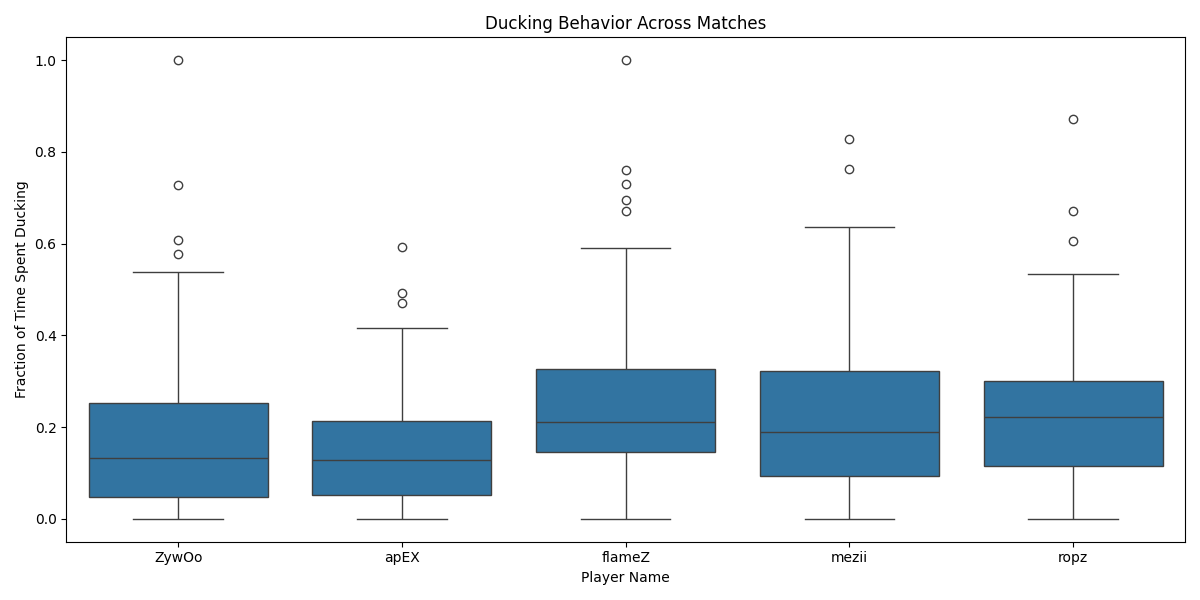
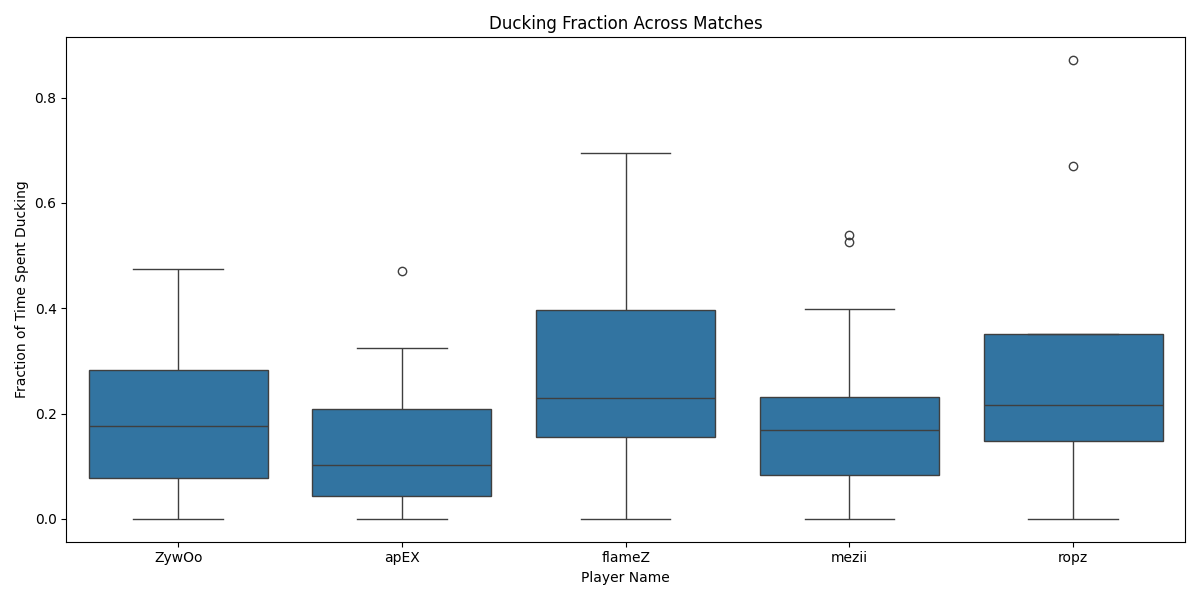
Extra metrics

diff --git a/player_similarity.py b/player_similarity.py
@@ -45,7 +45,8 @@ def compute_similarity(new_features: pd.DataFrame, known_features: pd.DataFrame)
     Computes a confidence score based on multiple similarity metrics.
     """
     return (
-        compute_cursor_similarity_jensenshannon(new_features, known_features)
+        compute_location_similarity_wasserstein(new_features, known_features) 
+        # compute_cursor_similarity_jensenshannon(new_features, known_features)
         # TODO: add more metrics here
         # such as heatmap, crouching/jumping, weapon usage, etc.
     ) / 1
@@ -105,6 +106,37 @@ def compute_cursor_similarity_wasserstein(new_features: pd.DataFrame, known_feat
     p2 = wasserstein_distance(new_features['pitch_acceleration'], known_features['pitch_acceleration'])
     p3 = wasserstein_distance(new_features['pitch_smoothness'], known_features['pitch_smoothness'])
     return 1 - (y1 + y2 + y3 + p1 + p2 + p3) / 6
+
+def compute_location_similarity_jensenshannon(new_features: pd.DataFrame, known_features: pd.DataFrame) -> float:
+    """
+    Computes a confidence score based on multiple similarity metrics.
+    """
+    x1, _ = np.histogram(new_features['X'], bins=50, density=True)
+    x2, _ = np.histogram(known_features['X'], bins=50, density=True)
+
+    x_jsd = jensenshannon(x1, x2)
+
+    y1, _ = np.histogram(new_features['Y'], bins=50, density=True)
+    y2, _ = np.histogram(known_features['Y'], bins=50, density=True)
+
+    y_jsd = jensenshannon(y1, y2)
+
+    return 1 - (x_jsd + y_jsd) / 2
+
+def compute_location_similarity_wasserstein(new_features: pd.DataFrame, known_features: pd.DataFrame) -> float:
+    """
+    Computes a confidence score based on multiple similarity metrics, normalized to [0, 1].
+    """
+    x1 = wasserstein_distance(new_features['X'], known_features['X'])
+    y1 = wasserstein_distance(new_features['Y'], known_features['Y'])
+    
+    # Normalize the distances to [0, 1] using a max possible distance (e.g., domain knowledge or a large constant)
+    max_distance = 1200  # Adjust this value based on the expected range of X and Y
+    normalized_x1 = min(x1 / max_distance, 1.0)
+    normalized_y1 = min(y1 / max_distance, 1.0)
+    
+    # Compute similarity as 1 - normalized average distance
+    return 1 - (normalized_x1 + normalized_y1) / 2
 
 def evaluate_players(new_ticks: pd.DataFrame, known_ticks: pd.DataFrame, players: list, map_name: str):
     """
@@ -168,24 +200,45 @@ def plot_similarity_results():
             }
     """
     results = [
+        # Cursor results
+        # {
+        #     "label": "Janson-Shannon",
+        #     "avg_self": 0.4534,
+        #     "min_self": 0.3276,
+        #     "max_self": 0.6264,
+        #     "avg_other": 0.4927,
+        #     "min_other": 0.2364,
+        #     "max_other": 0.9702,
+        # },
+        # {
+        #     "label": "Wasserstein",
+        #     "avg_self": 0.9348,
+        #     "min_self": 0.8272,
+        #     "max_self": 0.9927,
+        #     "avg_other": 0.8476,
+        #     "min_other": 0.2843,
+        #     "max_other": 0.9850,
+        # }
+
+        # Location results
         {
-            "label": "Jensen-Shannon",
-            "avg_self": 0.4534,
-            "min_self": 0.3276,
-            "max_self": 0.6264,
-            "avg_other": 0.4927,
-            "min_other": 0.2364,
-            "max_other": 0.9702,
+            "label": "Janson-Shannon",
+            "avg_self": 0.7747,
+            "min_self": 0.6580,
+            "max_self": 0.8150,
+            "avg_other": 0.6637,
+            "min_other": 0.1193,
+            "max_other": 0.8143,
         },
-        {
-            "label": "Wasserstein",
-            "avg_self": 0.9348,
-            "min_self": 0.8272,
-            "max_self": 0.9927,
-            "avg_other": 0.8476,
-            "min_other": 0.2843,
-            "max_other": 0.9850,
-        }
+        # {
+        #     "label": "Wasserstein",
+        #     "avg_self": 0.7282,
+        #     "min_self": 0.6691,
+        #     "max_self": 0.7924,
+        #     "avg_other": 0.6032,
+        #     "min_other": 0.0455,
+        #     "max_other": 0.9291,
+        # }
     ]
     categories = ["Avg Self", "Min Self", "Max Self", "Avg Other", "Min Other", "Max Other"]
     num_categories = len(categories)
@@ -194,7 +247,9 @@ def plot_similarity_results():
     x = np.arange(num_categories)  # X-axis positions for each category
     bar_width = 0.8 / num_datasets  # Adjust width dynamically
 
-    colors = ["#1f77b4", "#ff7f0e", "#2ca02c", "#d62728", "#9467bd", "#7f7f7f"]  # Blue, Orange, Green, Red, Purple, Gray
+    colors = [
+        "#1f77b4", 
+        "#ff7f0e", "#2ca02c", "#d62728", "#9467bd", "#7f7f7f"]  # Blue, Orange, Green, Red, Purple, Gray
 
     fig, ax = plt.subplots(figsize=(10 + num_datasets, 6))
 
@@ -216,7 +271,7 @@ def plot_similarity_results():
     ax.set_ylim(0, 1)  # Assuming similarity scores are between 0 and 1
 
     # plt.show()
-    plt.savefig("./figures/player_similarity_evaluation.png", dpi=300)
+    plt.savefig("./figures/player_location_similarity_evaluation_js.png", dpi=300)
 
 def main():
     parser = argparse.ArgumentParser(description='Compute player similarity between new and known demo files.')

diff --git a/boxplots.py b/boxplots.py
@@ -49,12 +49,12 @@ def plot_boolean_boxplot(data, field):
     :param field: The boolean field being analyzed
     """
     plt.figure(figsize=(12, 6))
-    sns.boxplot(x='name', y='fraction_active', data=data)
+    sns.boxplot(x='name', y='fraction_active', data=data, color='#ff7f0e')
     
     # Labels and title
     plt.xlabel("Player Name")
     plt.ylabel(f"Fraction of Time Spent {field.capitalize()}")
-    plt.title(f"{field.capitalize()} Behavior Across Matches")
+    plt.title(f"{field.capitalize()} Fraction Across Matches")
     
     plt.tight_layout()
     
@@ -68,7 +68,7 @@ def main():
     parser = argparse.ArgumentParser(description='Analyze player behavior based on boolean fields')
     parser.add_argument('folder', type=util.dir_path, help='Path to the folder containing .dem files')
     parser.add_argument('field', type=str, help='Boolean field to analyze (e.g., ducking, jumping)')
-    parser.add_argument('--count', '-c', type=int, default=None, help='Limit the number of demo files to process')
+    parser.add_argument('--limit', type=int, default=None, help='Limit the number of demo files to process')
     
     args = parser.parse_args()
 
@@ -78,7 +78,7 @@ def main():
       tick_props=[args.field, 'match', 'name'], 
       save=True, 
       players_of_interest=players_of_interest,
-      limit=args.count
+      limit=args.limit
     )
 
     # Compute fractions for the given field
